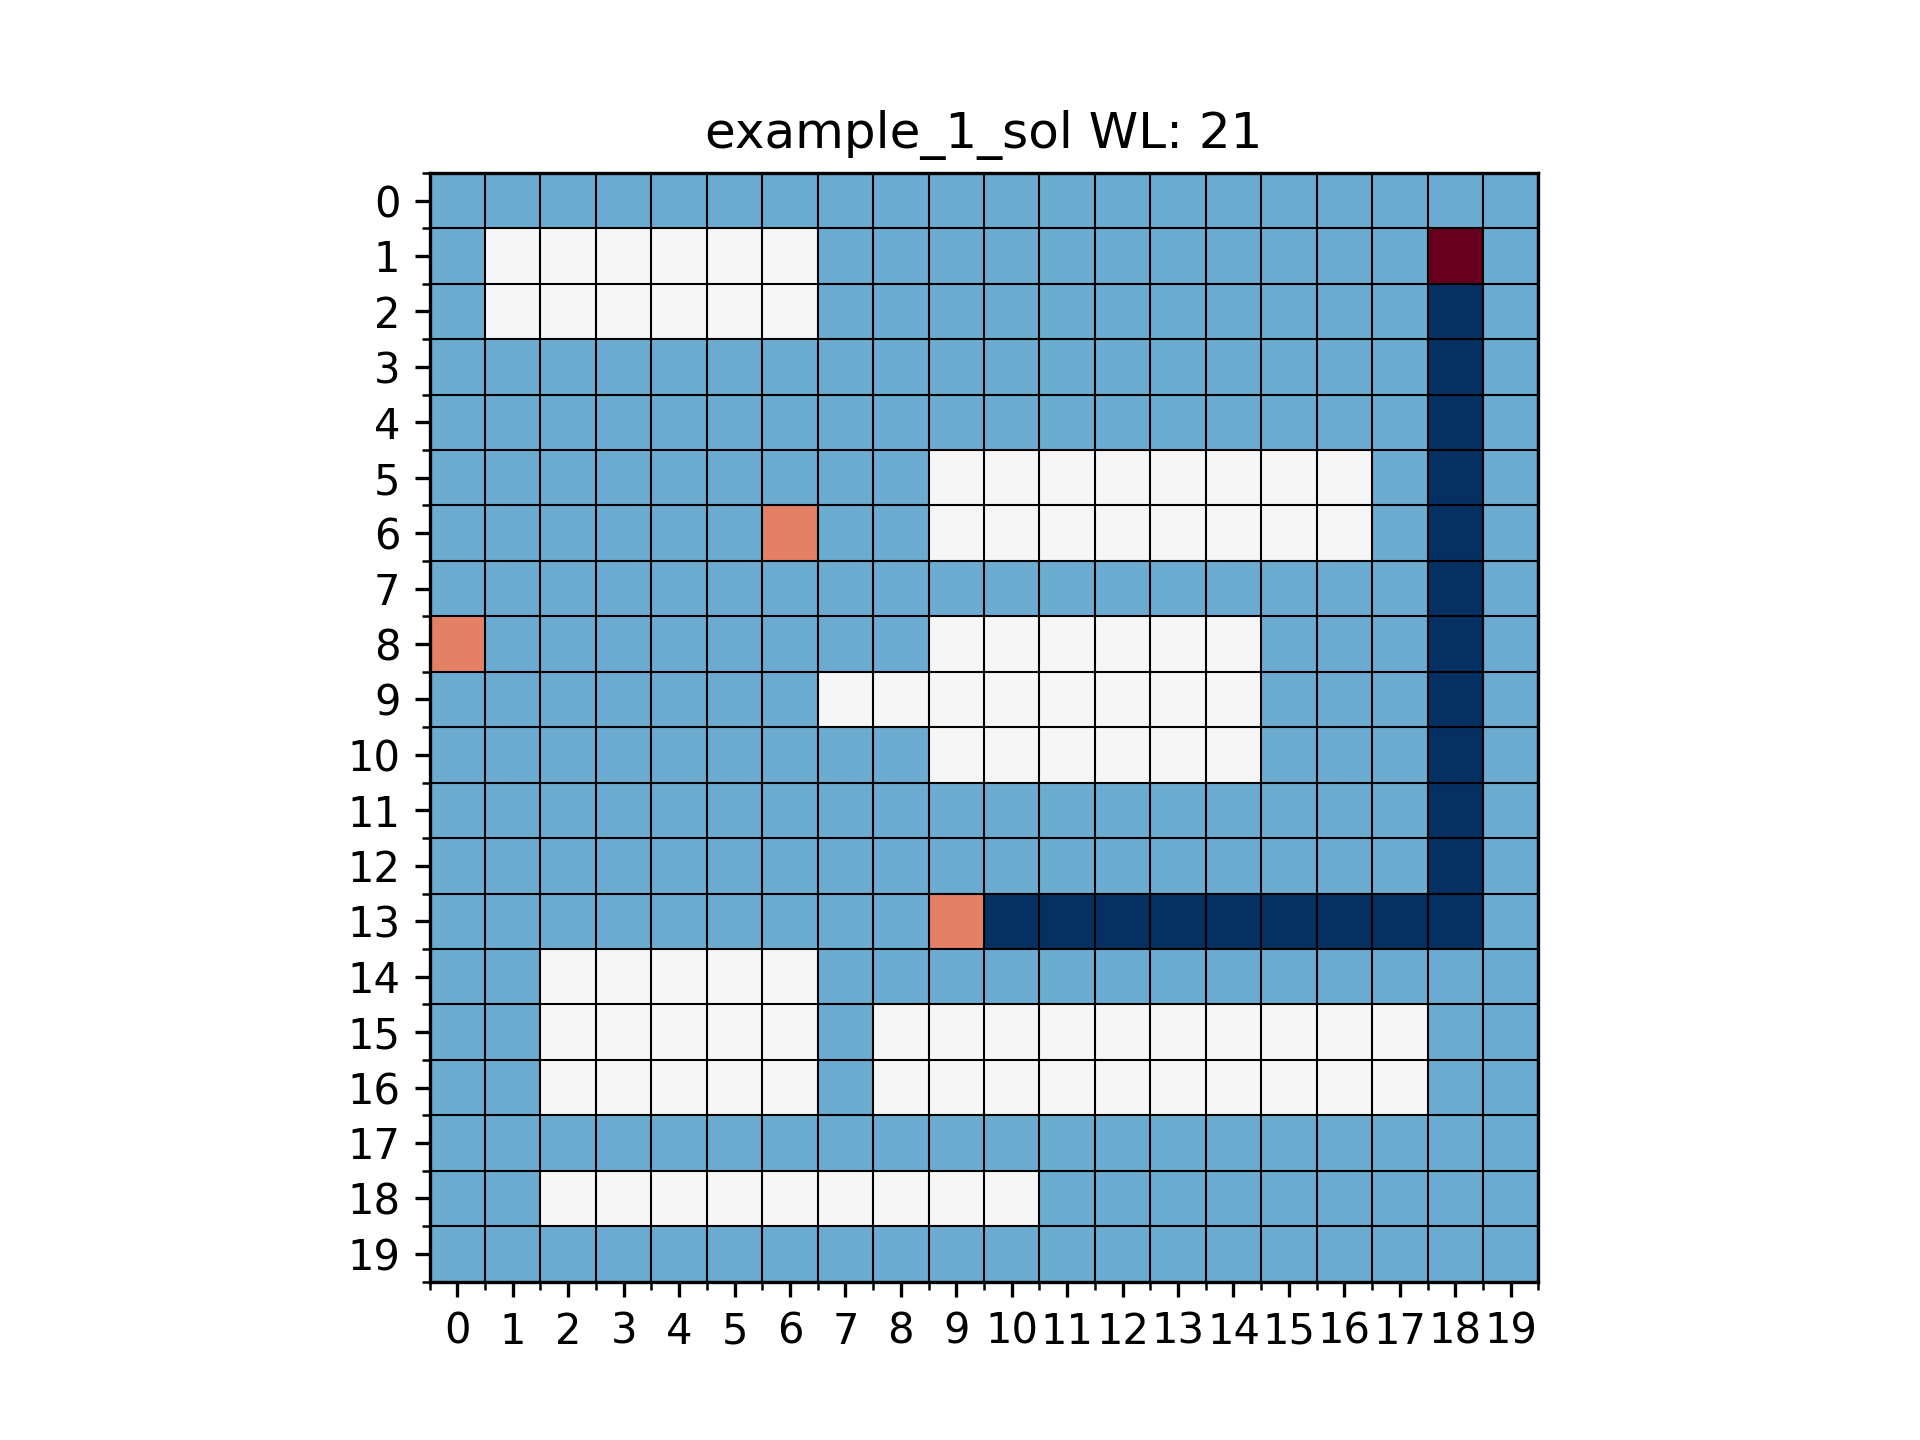
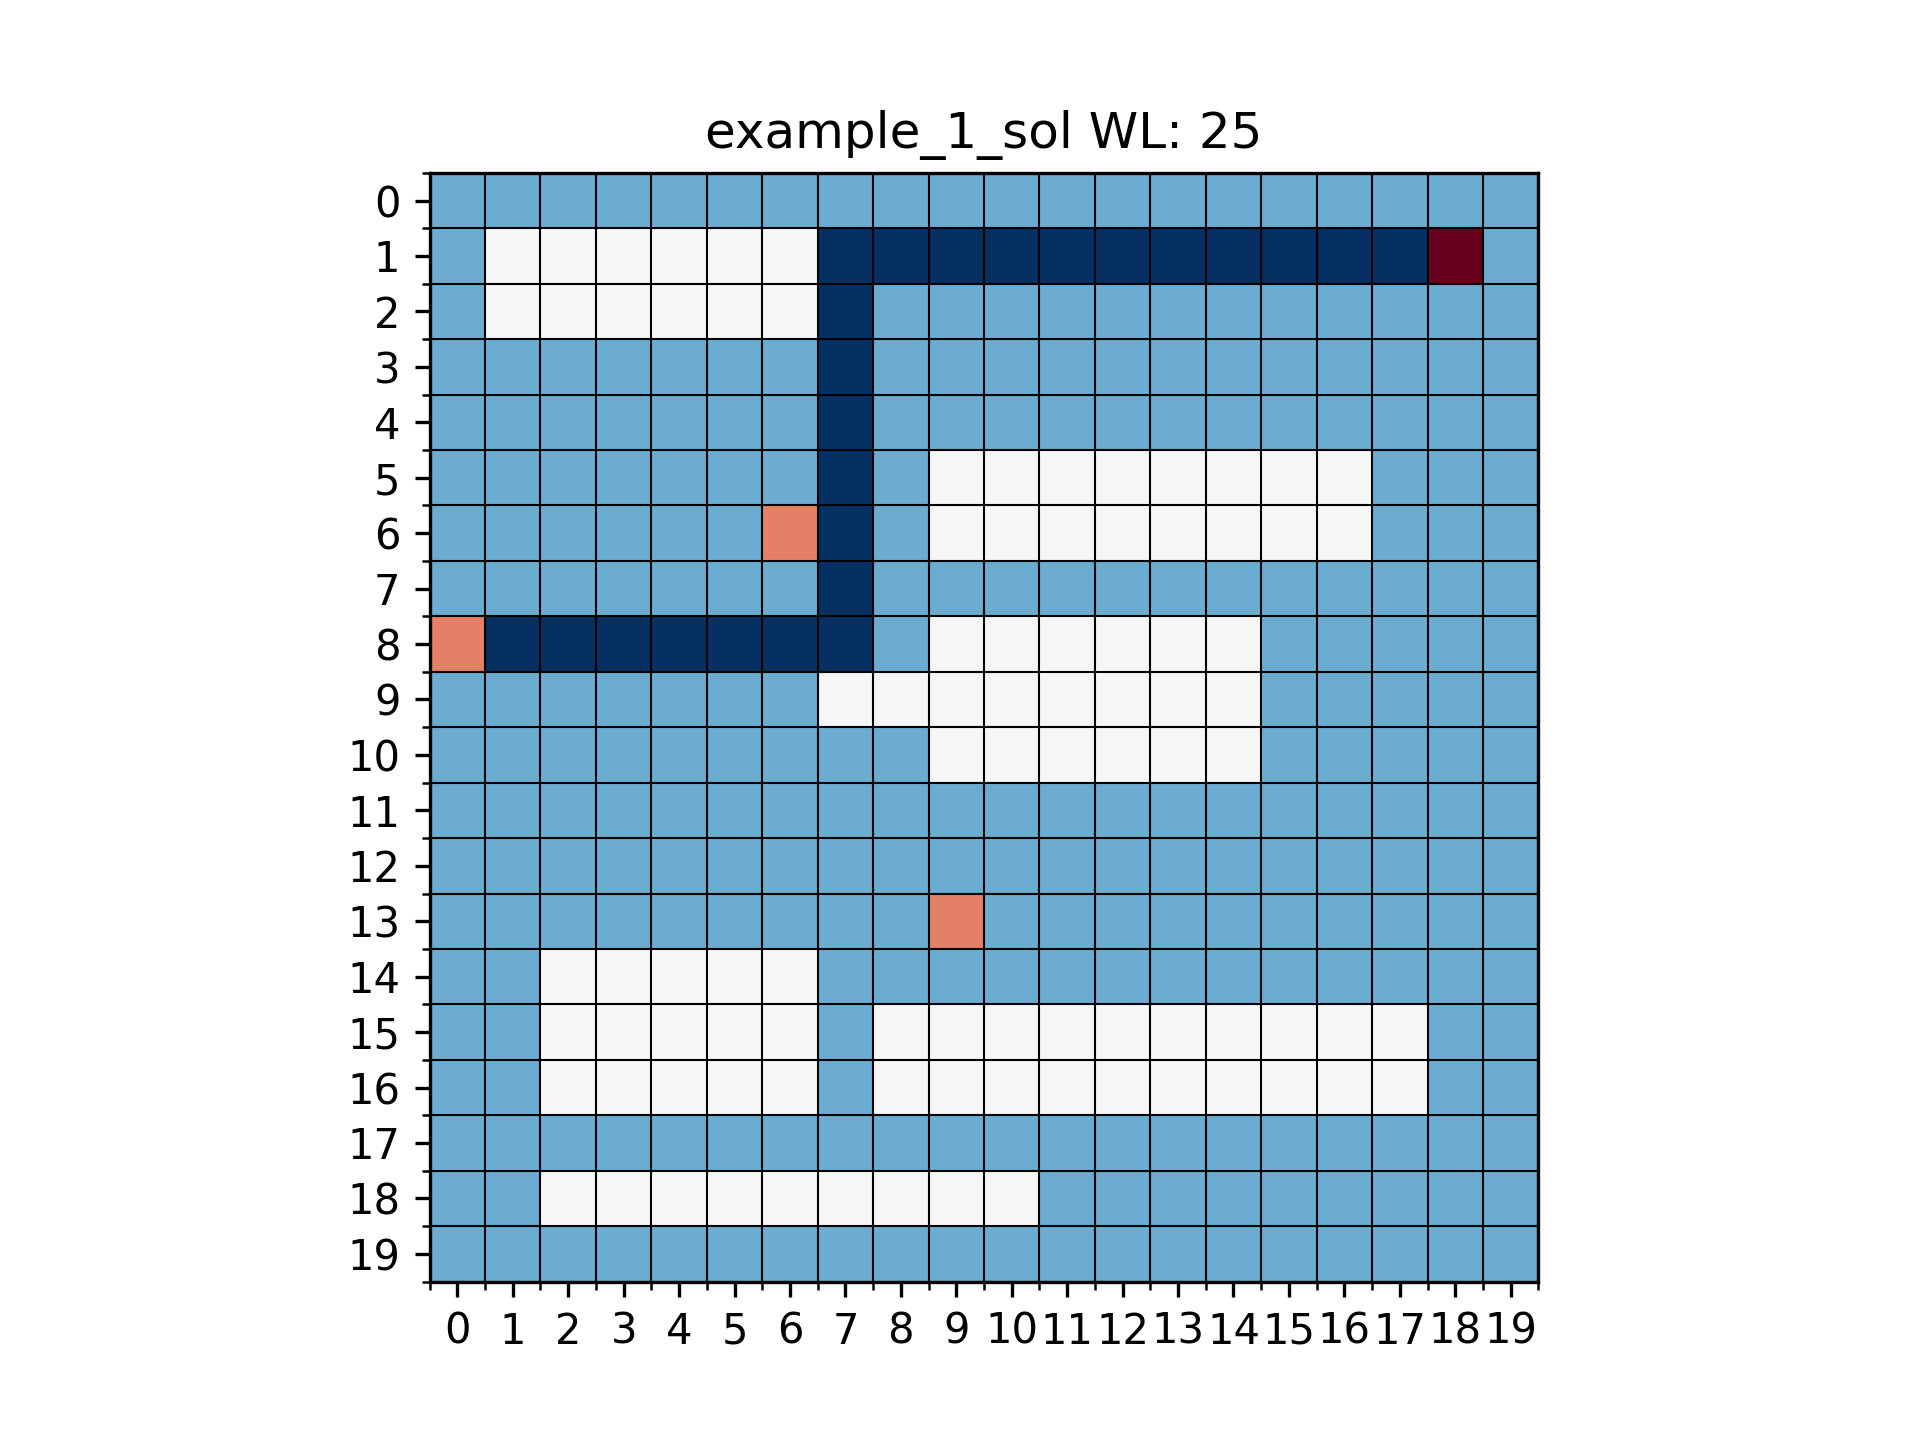
update

Changed region(s): [[0.25, 0.1562, 0.7812, 0.6562], [0.625, 0.0625, 0.6562, 0.0938]]

diff --git a/A_Star_Search/student_impl/eid_xz7622.py b/A_Star_Search/student_impl/eid_xz7622.py
@@ -152,11 +152,11 @@ class A_Star_Search(A_Star_Search_Base):
         node_record[source_node.pos] = source_node
         
         sink_node = GridAstarNode()
-        sink_node.pos = self.sink_node
+        # sink_node.pos = self.sink_node
 
         path = [] # closed list for nodes explored, red
 
-        connect_net = np.ndarray(shape = (0, 2))
+        # connect_net = np.ndarray(shape = (0, 2))
 
         while True:
             node = node_path.get() # get a priority node from queue based on f(n)
@@ -165,11 +165,18 @@ class A_Star_Search(A_Star_Search_Base):
                 self.visited_node_count += 1
 
             path.append(node.pos) # node is explored, red
-            connect_net = np.append(connect_net, [node.pos], axis = 0)
+            # connect_net = np.append(connect_net, [node.pos], axis = 0)
 
-            if node.pos == sink_node.pos: # if popped out node is sink node, done
-                sink_node = node
-                break
+            # if node.pos == sink_node.pos: # if popped out node is sink node, done
+            #     sink_node = node
+            #     break
+            node_pos_as_list = list(node.pos) # node position: tuple to list
+            sink_node_array_as_list = self.sink_node_array.tolist()
+            if node_pos_as_list in sink_node_array_as_list: # check if this node is in the sink array -> if this node is one of the sink nodes
+                self.sink_node_array = np.delete(self.sink_node_array, sink_node_array_as_list.index(node_pos_as_list), axis = 0) # remove the connected sink node from sink node arrays
+                if len(self.sink_node_array) == 0: # if all sink nodes have been visited and connected with source
+                    sink_node = node
+                    break
 
             self.find_neighbors(node) # find neighbors of the current node
             for i in range(0, len(node.neighbors)): # for each neighbor
@@ -186,7 +193,8 @@ class A_Star_Search(A_Star_Search_Base):
                         neighbor_copy.parent = node
                         neighbor_copy.bend_count = self.bend_count_number(neighbor_copy)
                         neighbor_copy.cost_g = self.compute_g(neighbor_copy)
-                        neighbor_copy.cost_f = self.compute_f(neighbor_copy)
+                        # neighbor_copy.cost_f = self.compute_f(neighbor_copy)
+                        neighbor_copy.cost_f = self.compute_f_array(neighbor_copy, self.sink_node_array)
 
                         if neighbor_copy.cost_g < node_record[neighbor.pos].cost_g: # if potentially a smaller cost_g
                             # update node
@@ -206,7 +214,8 @@ class A_Star_Search(A_Star_Search_Base):
                         neighbor.parent = node
                         neighbor.bend_count = self.bend_count_number(neighbor)
                         neighbor.cost_g = self.compute_g(neighbor)
-                        neighbor.cost_f = self.compute_f(neighbor)
+                        # neighbor.cost_f = self.compute_f(neighbor)
+                        neighbor.cost_f = self.compute_f_array(neighbor, self.sink_node_array)
                         neighbor.visited = True
                         node_path.put(neighbor) # add neighbor to open list, green
                         node_record[neighbor.pos] = neighbor
@@ -214,6 +223,6 @@ class A_Star_Search(A_Star_Search_Base):
         path_list = self._backtrack(sink_node)
         wirelength = len(path_list) - 1
 
-        print(connect_net)
+        # print(connect_net)
 
         return (self._merge_path(path_list), wirelength, [wirelength], [self.visited_node_count])
